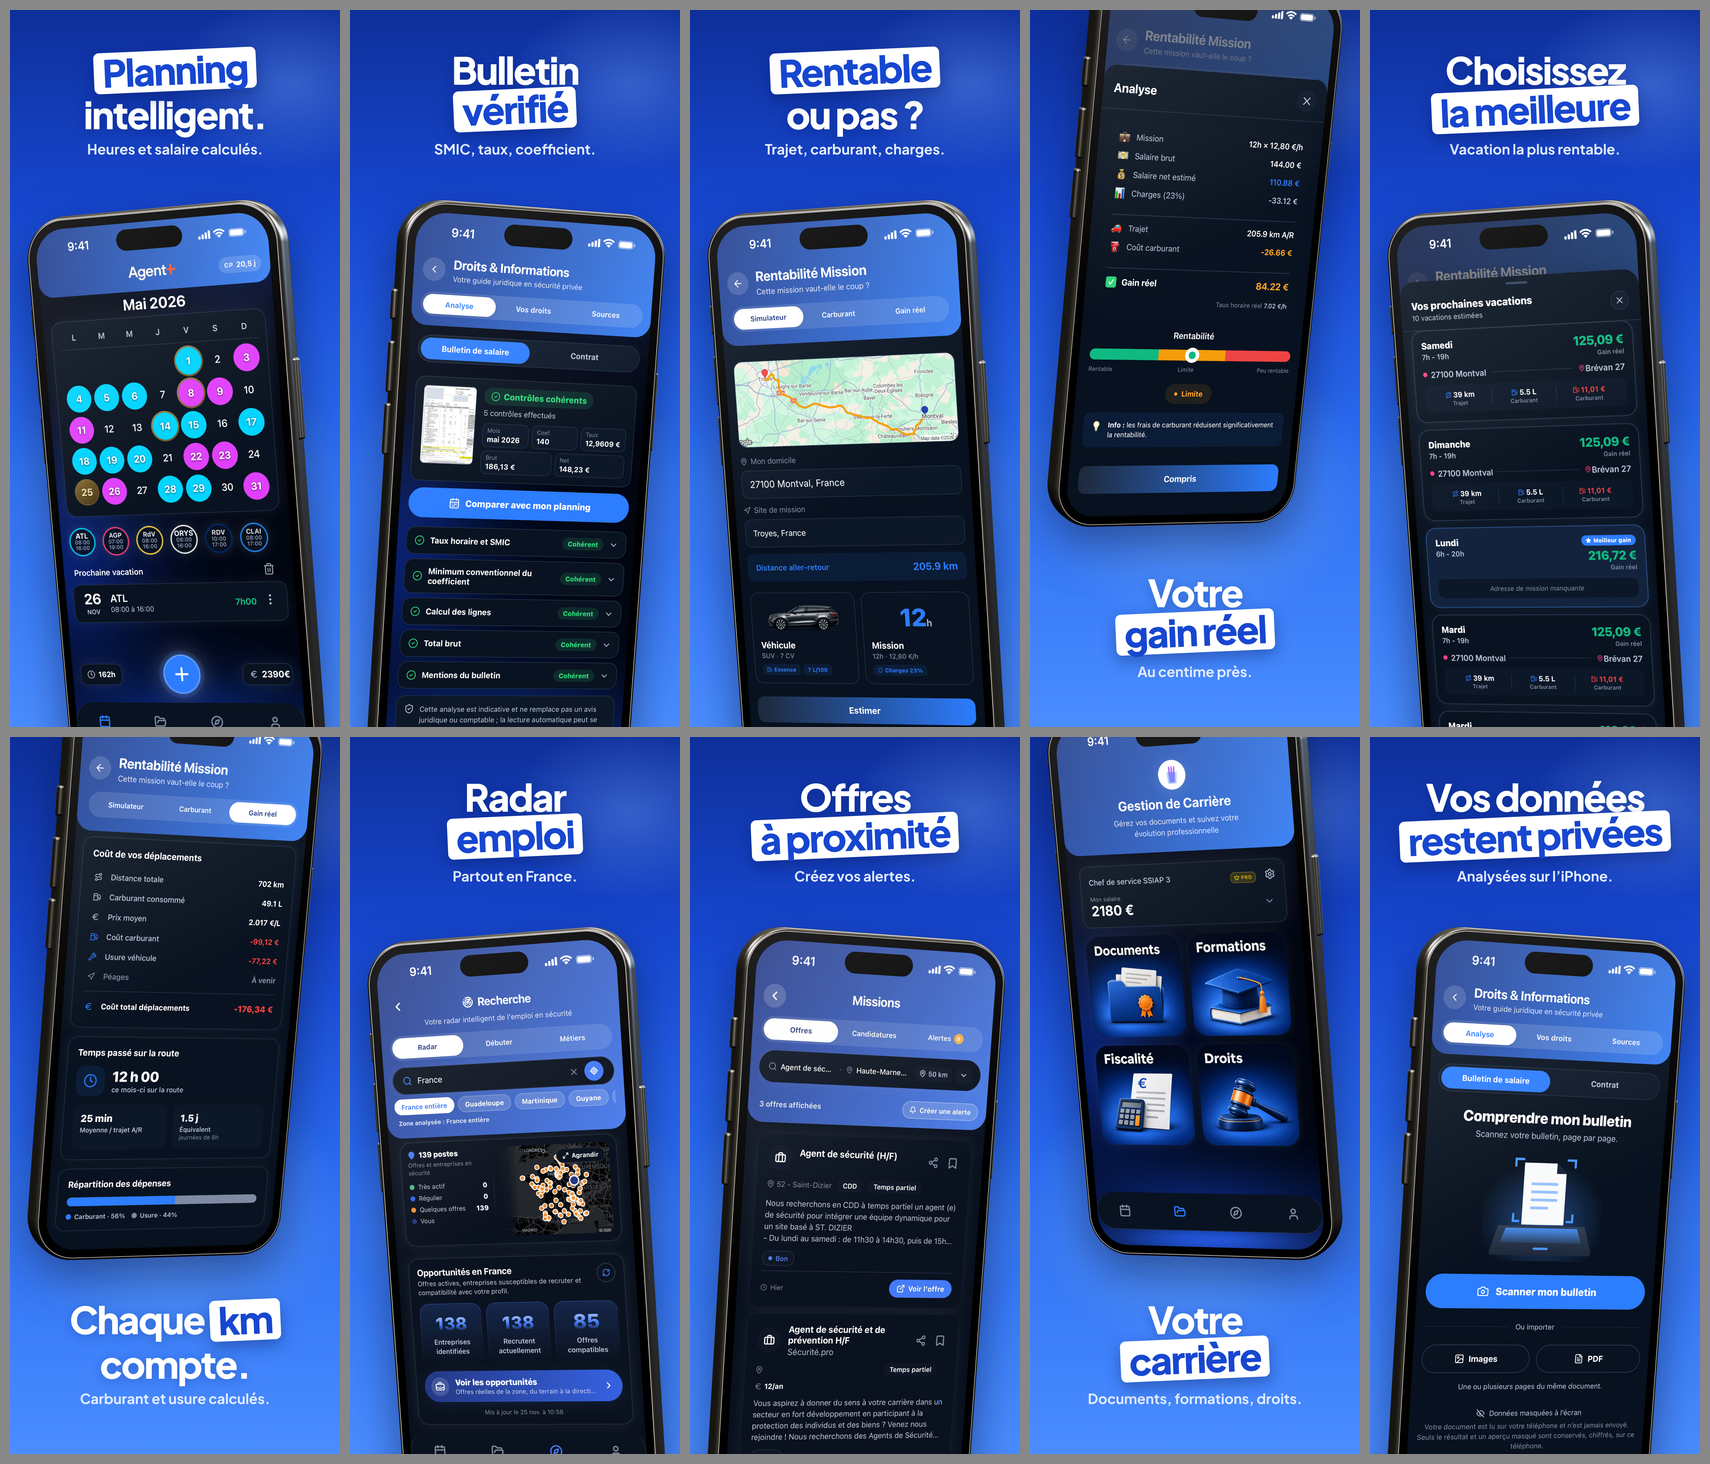
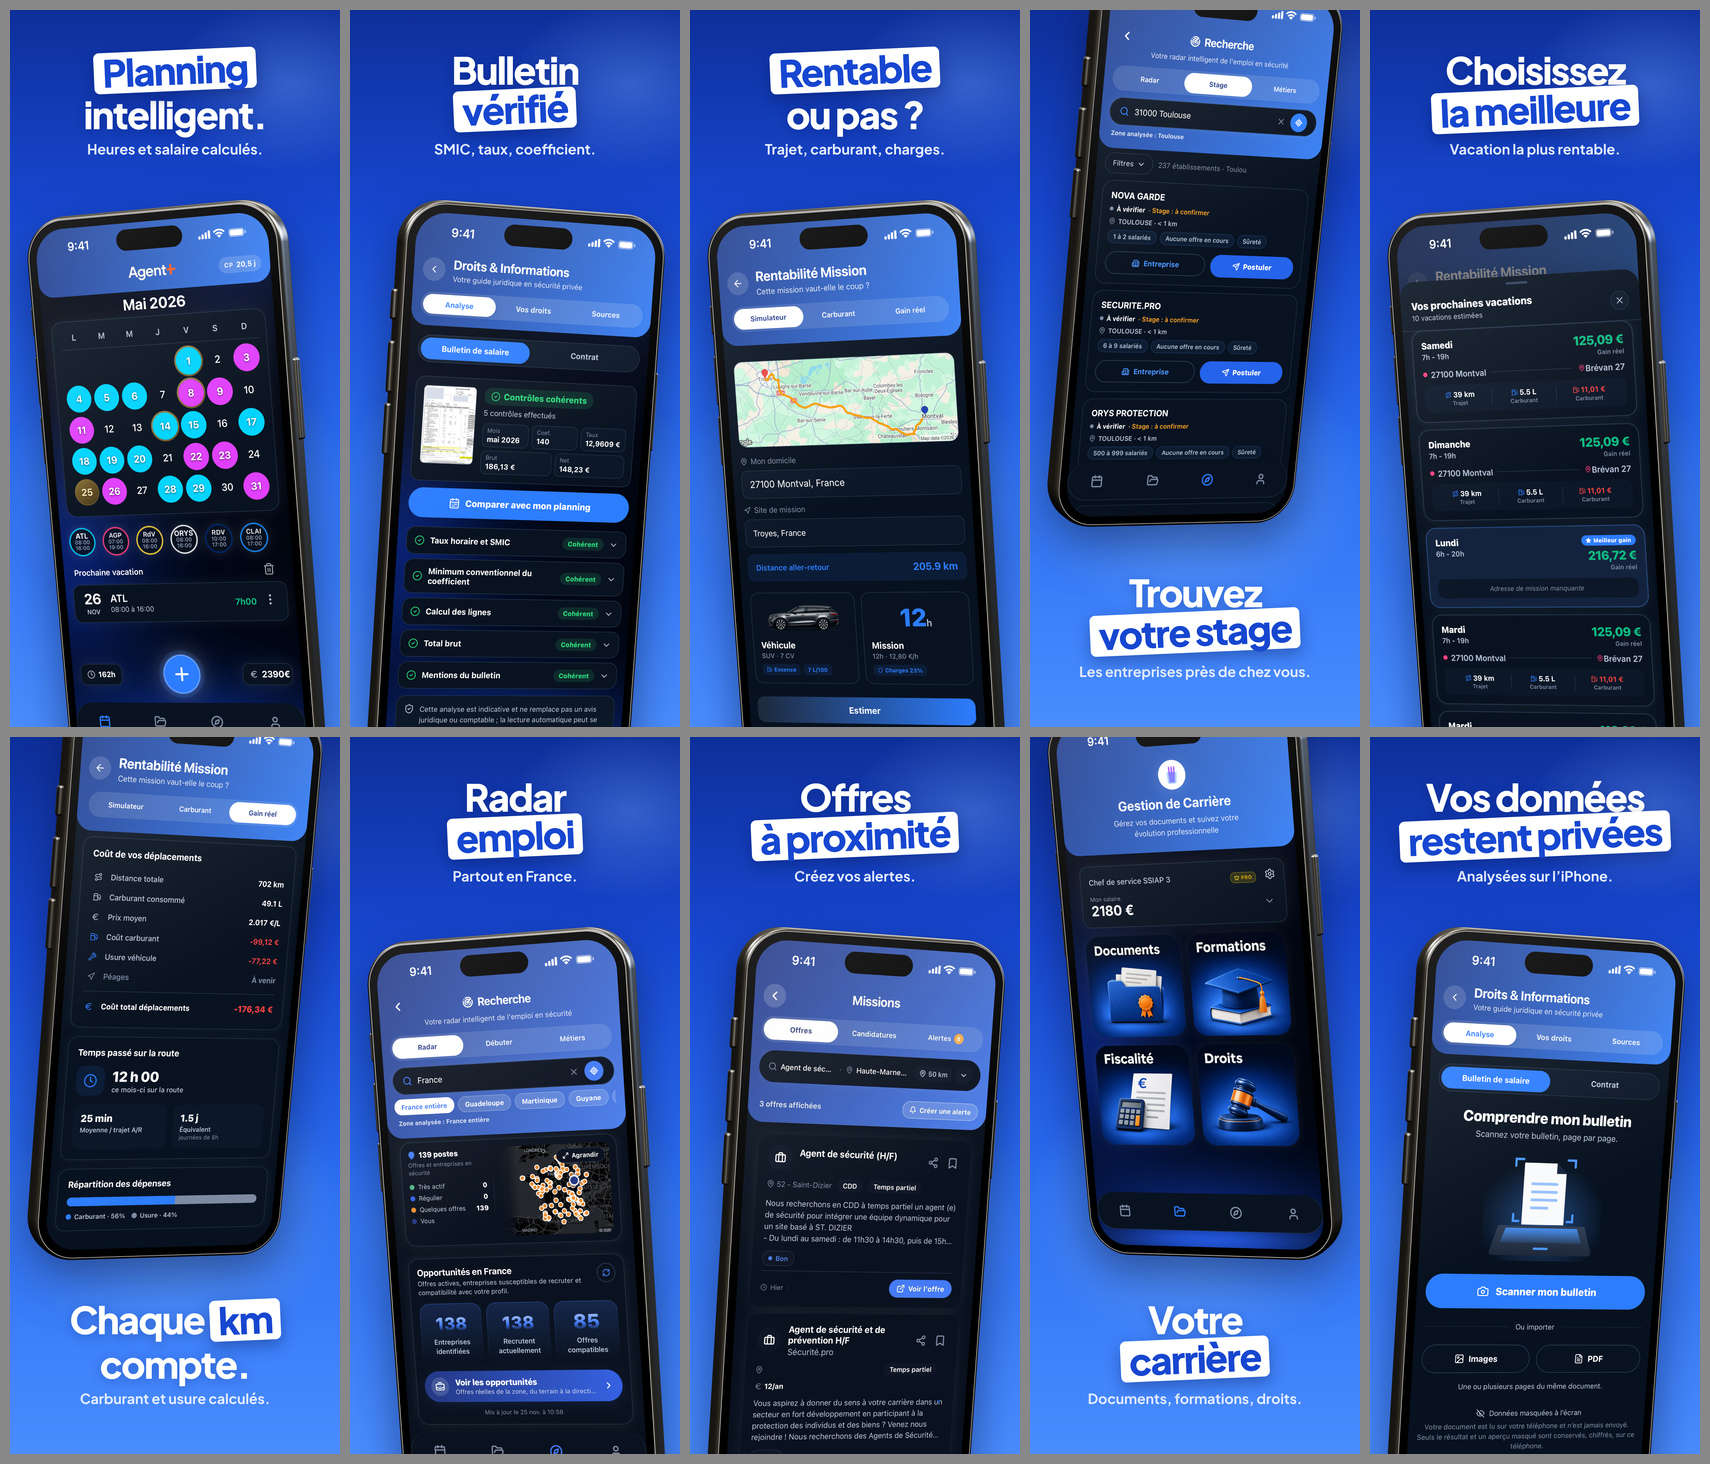
Replace visual 04 with stage search screen, fictional company names
Claude-Session: https://claude.ai/code/session_01XiS2iAPrhN4xxrmahaDJ6q

Changed region(s): [[0.6199, 0.0, 0.8058, 0.3381], [0.6199, 0.3996, 0.7749, 0.4611]]

diff --git a/agent-plus/deck-3d.html b/agent-plus/deck-3d.html
@@ -36,7 +36,7 @@ const F={
   '01-planning':    {t:'<mark>Planning</mark><br>intelligent.', sub:'Heures et salaire calculés.'},
   '02-bulletin':    {t:'Bulletin<br><mark>vérifié</mark>', sub:'SMIC, taux, coefficient.'},
   '03-simulateur':  {t:'<mark>Rentable</mark><br>ou pas ?', sub:'Trajet, carburant, charges.'},
-  '04-rentabilite': {t:'Votre<br><mark>gain réel</mark>', sub:'Au centime près.', bottom:true},
+  '04-stage':       {t:'Trouvez<br><mark>votre stage</mark>', sub:'Les entreprises près de chez vous.', bottom:true},
   '05-vacations':   {t:'Choisissez<br><mark>la meilleure</mark>', sub:'Vacation la plus rentable.'},
   '06-gain':        {t:'Chaque <mark>km</mark><br>compte.', sub:'Carburant et usure calculés.', bottom:true},
   '07-radar':       {t:'Radar<br><mark>emploi</mark>', sub:'Partout en France.'},

diff --git a/agent-plus/render-final.js b/agent-plus/render-final.js
@@ -1,6 +1,6 @@
 // Rendu des 10 visuels finaux (après node render-phones.js) : node render-final.js -> versions/final-3d/*.png (RGB, 1320x2868)
 const {chromium}=require('playwright');const path=require('path');const fs=require('fs');const {execFileSync}=require('child_process');
-const ids=['01-planning','02-bulletin','03-simulateur','04-rentabilite','05-vacations','06-gain','07-radar','08-missions','09-carriere','10-confidentiel'];
+const ids=['01-planning','02-bulletin','03-simulateur','04-stage','05-vacations','06-gain','07-radar','08-missions','09-carriere','10-confidentiel'];
 (async()=>{const b=await chromium.launch();const p=await b.newPage({viewport:{width:1320,height:2868}});
 fs.mkdirSync('versions/final-3d',{recursive:true});
 for(const id of ids){await p.goto('file://'+path.resolve('deck-3d.html')+'?s='+id);

diff --git a/agent-plus/clean.py b/agent-plus/clean.py
@@ -2,7 +2,7 @@
 import sys
 from PIL import Image, ImageDraw, ImageFont, ImageFilter
 FONT = "/usr/share/fonts/opentype/inter/Inter-SemiBold.otf"
-NAMES = ["planning","bulletin-analyse","simulateur","rentabilite","vacations",
+NAMES = ["stage", "planning","bulletin-analyse","simulateur","rentabilite","vacations",
          "gain-reel","radar","missions","carriere","scanner"]
 FD = "/usr/share/fonts/opentype/inter/"
 # Remplacements de texte : zone à effacer (x0,y0,x1,y1), texte, police, taille,
@@ -27,6 +27,11 @@ REPL = {
         ((1012, 1281, 1228, 1327), "Brévan 27", "Inter-SemiBold.otf", 44, (1218, 1319), "rs", (183, 195, 217)),
         ((140, 2273, 470, 2319), "27100 Montval", "Inter-SemiBold.otf", 44, (145, 2311), "ls", (183, 195, 217)),
         ((1012, 2273, 1228, 2319), "Brévan 27", "Inter-SemiBold.otf", 44, (1218, 2311), "rs", (183, 195, 217)),
+    ],
+    "stage": [
+        ((95, 1091, 760, 1141), "NOVA GARDE", "Inter-Bold.otf", 47, (101, 1133), "ls", (255, 255, 255)),
+        ((95, 1681, 760, 1731), "SECURITE.PRO", "Inter-Bold.otf", 47, (101, 1723), "ls", (255, 255, 255)),
+        ((95, 2271, 760, 2321), "ORYS PROTECTION", "Inter-Bold.otf", 47, (101, 2313), "ls", (255, 255, 255)),
     ],
     "missions": [
         ((290, 2092, 710, 2142), "Sécurité.pro", "Inter-Regular.otf", 44, (295, 2133), "ls", (172, 182, 202)),
